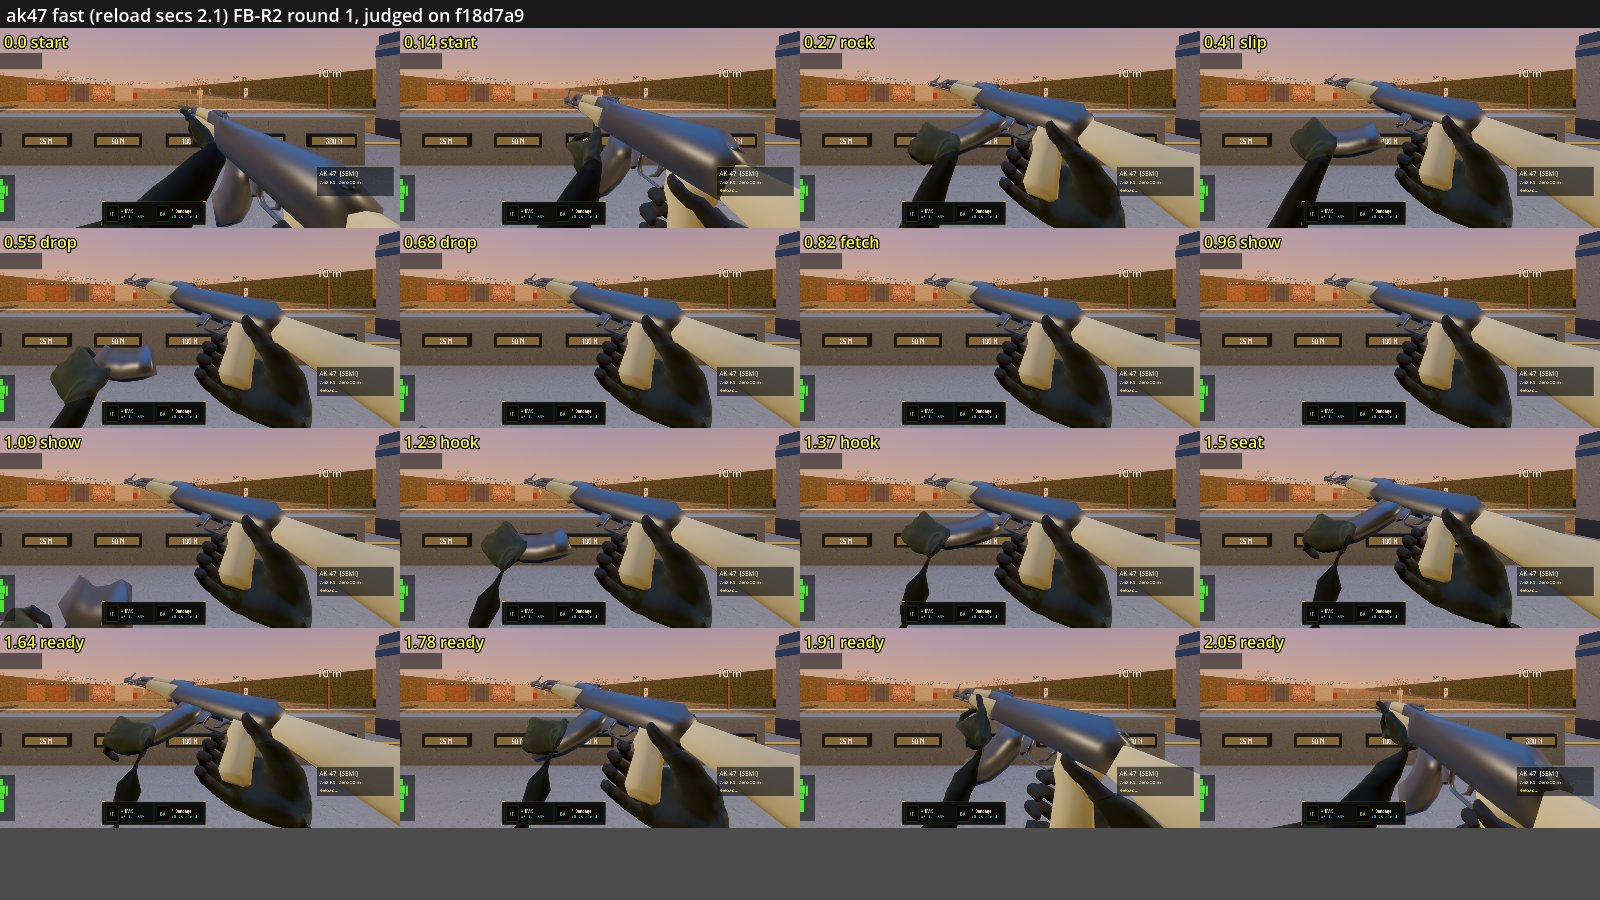
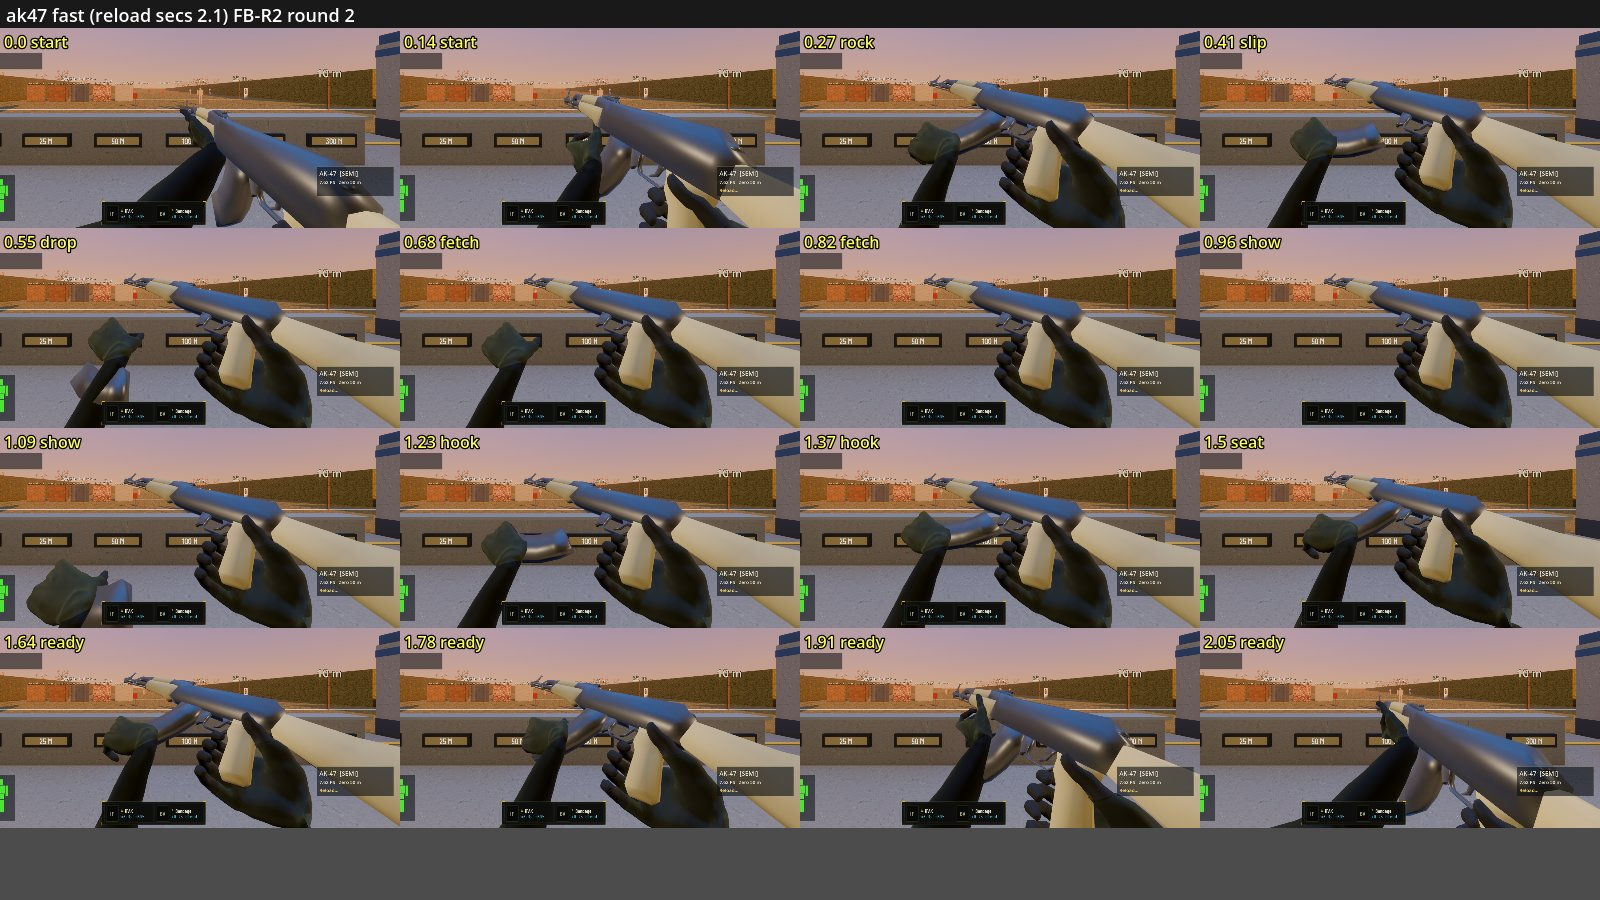
FB-R2 round 2: hand lets go of a dropped mag, rig charge_shift (saiga12/sks), sr25 catch hand lower

diff --git a/docs/art/reload/SCORES.md b/docs/art/reload/SCORES.md
@@ -136,3 +136,17 @@ Round 1 (judged on f18d7a9 = round-3 code + session B's WIP).
 | sks | plain | R2-1 | 8 | 2 | 2 | 2 | 1 | 1 | Stands. |
 | sks | fast | R2-1 | 7 | 2 | 1 | 2 | 1 | 1 | (a) Same carried drop as saiga fast: in hand at 0.52, falling 0.65. |
 | sks | empty | R2-1 | 6 | 1 | 2 | 1 | 1 | 1 | (a) Same near charge pose as saiga: forearm slab ~25 % 2.31-2.52, hand over the top. |
+
+Round 2 (FB-R2). Changes: (1) a hand on the mag holds it at the phase's start / end mag pose, so it lets go of a dropped mag
+instead of riding it down; new `let` anchor (hand stays at the mag's `slip` pose); rifle plan fast: `drop` 0.14 -> 0.10 with the
+hand on `let`, `fetch` 0.07 -> 0.11 to the pouch (same total). (2) rig `charge_shift` ([gp, gr] for the empty-only charge poses):
+saiga12 / sks z -0.08 (as far off as their mag change). (3) sr25 catch hand 3 cm lower, 2 cm back. Re-rendered: the six below.
+
+| gun | reload | round | score | 1 | 2 | 3 | 4 | 5 | top 3 fixes (concrete: which phase, which number) |
+|---|---|---|---|---|---|---|---|---|---|
+| ak47 | fast | R2-2 | 8 | 2 | 2 | 2 | 1 | 1 | Drop now reads: hand open at the well (0.55), mag below it. Criterion 5 half point: paddle has no thumb (frozen fingers). |
+| saiga12 | fast | R2-2 | 8 | 2 | 2 | 1 | 1 | 2 | Up from 7: `drop` 0.57 drum falls below the open hand, gone by 0.72. |
+| sks | fast | R2-2 | 8 | 2 | 2 | 2 | 1 | 1 | Up from 7: mag falls free at 0.52. |
+| saiga12 | empty | R2-2 | 7 | 1 | 2 | 1 | 1 | 2 | Up from 6: rack pose now as far off as the mag change, reads as an overhand rack (fingers over the receiver 2.6-2.82). (a) Forearm still ~20 % of the lower left 2.37-2.84. (b) Fingers stand up above the receiver instead of wrapping it. |
+| sks | empty | R2-2 | 6 | 1 | 2 | 1 | 1 | 1 | (a) reach 2.31 / regrip 2.52: the fingers float 2-4 cm above the receiver top (the rifle "charge" frame points them up). Overhand frame: fingers down the right side, wrist above. (b) Two big sleeves (left lower-left, right lower-right) at 2.31. |
+| sr25 | empty | R2-2 | 7 | 1 | 1 | 1 | 2 | 2 | Up from 6: palm on the lower above the mag at reach / press 2.01-2.36, the press shows. (a) Fingers wrap over the receiver top, so it still reads partly "on top". |
